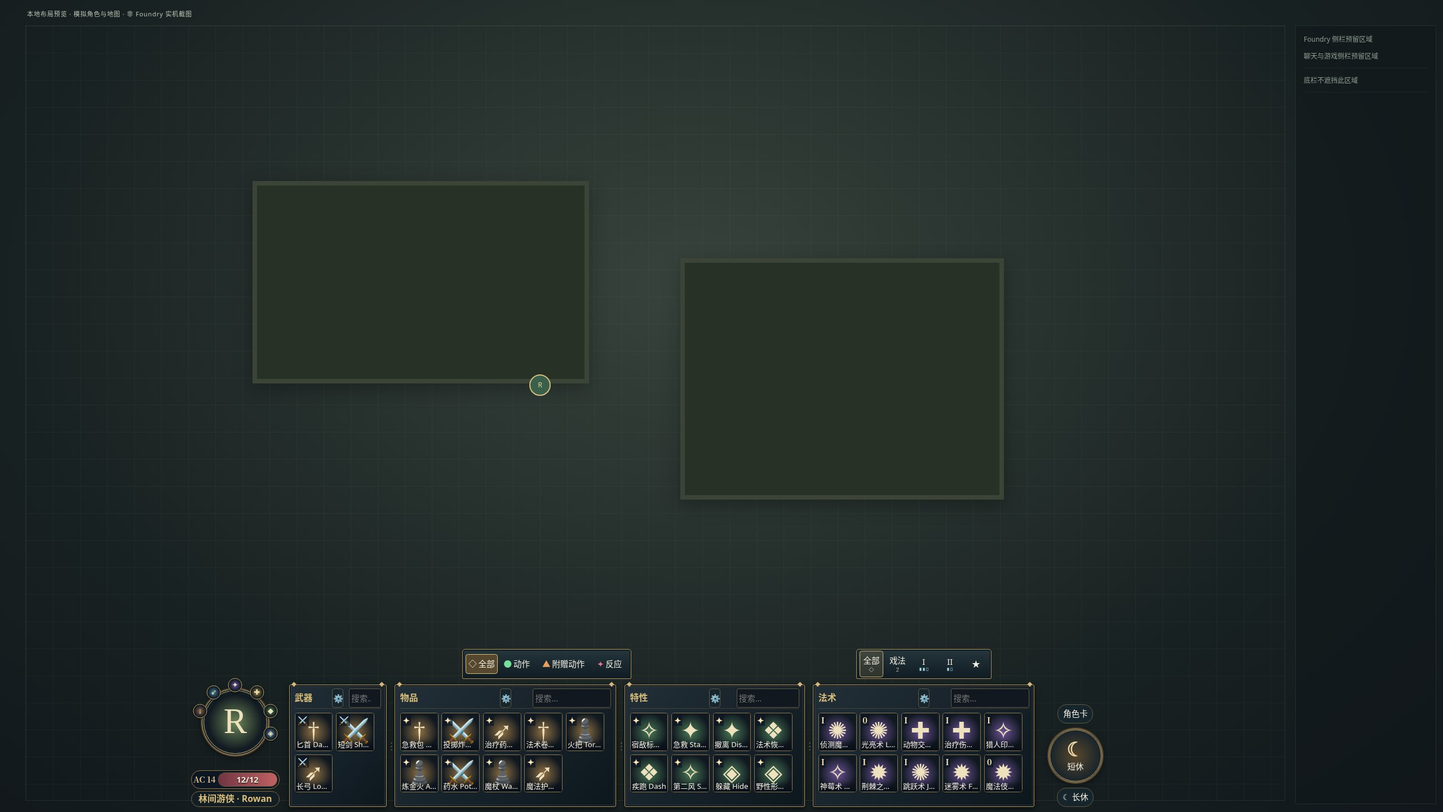
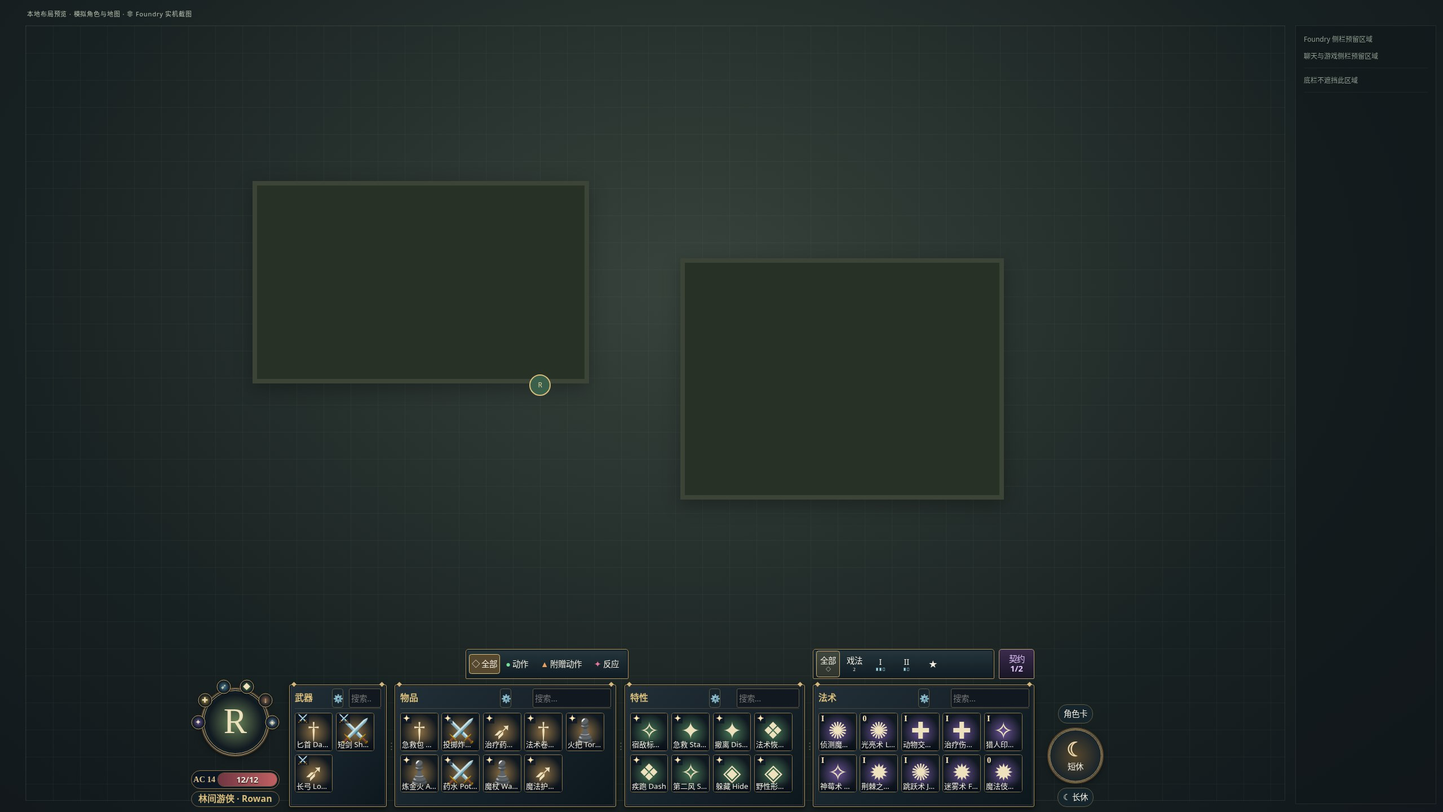
feat: center portrait condition groups and show separate pact slots

diff --git a/scripts/hud.js b/scripts/hud.js
@@ -328,7 +328,7 @@ export class VideoHUD {
     // Never toggle upstream settings or touch its persistent player flags.
     document.body.classList.add('bg3-video-hud-active');
     if (focusKey) {
-      const focused = [...root.querySelectorAll('button, input, select, [data-scroll-group][tabindex], [data-divider]')]
+      const focused = [...root.querySelectorAll('button, input, select, [data-scroll-group][tabindex], [data-divider], [data-condition-key]')]
         .find(b => JSON.stringify(b.dataset) === focusKey);
       focused?.focus({ preventScroll: true });
       if (focused?.tagName === 'INPUT' && selection?.[0] !== null && selection?.[0] !== undefined) {
@@ -340,18 +340,21 @@ export class VideoHUD {
   }
 
   spellControls(prefs) {
+    const wrapper = node('div', undefined, 'bg3-video-hud-spell-controls');
     const box = node('div', undefined, 'bg3-video-hud-spells');
     const nav = node('nav');
     nav.dataset.scrollGroup = 'spell-levels';
     nav.setAttribute('aria-label', '法术环阶');
     const pools = slotPools(this.actor);
+    const regularPools = pools.filter(pool => pool.key !== 'pact');
+    const pact = pools.find(pool => pool.key === 'pact');
     const spells = itemsFor(this.actor, {}, { edit: true }).filter(i => i.type === 'spell');
     for (const level of ['all', ...spellLevels(this.actor)]) {
       const text = level === 'all' ? '全部' : level === 0 ? '戏法' : ['0', 'I', 'II', 'III', 'IV', 'V', 'VI', 'VII', 'VIII', 'IX'][level];
       const control = button('', 'filter-level', `法术环阶：${level === 'all' ? '全部' : `${level}环`}`, { value: String(level) });
       control.append(node('span', text));
       const indicators = node('span', undefined, 'bg3-video-hud-level-pips');
-      const pool = pools.find(p => p.key === `spell${level}`);
+      const pool = regularPools.find(p => p.key === `spell${level}`);
       if (pool) {
         control.title += ` · 法术位 ${pool.value}/${pool.max}`;
         for (let i = 0; i < Math.min(12, Number(pool.max) || 0); i++) {
@@ -368,14 +371,14 @@ export class VideoHUD {
     pinned.setAttribute('aria-pressed', String(prefs.pinnedOnly));
     nav.append(pinned);
     box.append(nav);
-    const slots = node('small', pools.length
-      ? pools.map(p => `${p.label}：${p.value ?? '?'}/${p.max ?? '?'}`).join(' · ')
-      : '无法术位。戏法与天赋施法按系统规则处理。');
+    const slots = node('small', regularPools.length
+      ? regularPools.map(p => `${p.label}：${p.value ?? '?'}/${p.max ?? '?'}`).join(' · ')
+      : '无普通法术位。戏法与天赋施法按系统规则处理。');
     slots.title = slots.textContent;
     slots.dataset.scrollGroup = 'spell-pools';
     slots.tabIndex = 0;
     const pips = node('span', undefined, 'bg3-video-hud-slot-pips'); pips.setAttribute('aria-hidden', 'true');
-    for (const pool of pools) {
+    for (const pool of regularPools) {
       const group = node('span'); group.title = `${pool.label}：${pool.value}/${pool.max}`;
       for (let i = 0; i < Math.min(Number(pool.max) || 0, 12); i++) {
         const pip = node('i'); if (i < pool.value) pip.className = 'available'; group.append(pip);
@@ -383,7 +386,17 @@ export class VideoHUD {
       pips.append(group);
     }
     slots.append(pips); box.append(slots);
-    return box;
+    wrapper.append(box);
+    if (pact) {
+      const indicator = node('div', undefined, 'bg3-video-hud-pact-slots');
+      indicator.tabIndex = 0; indicator.dataset.scrollGroup = 'pact-slots';
+      indicator.setAttribute('role', 'group');
+      indicator.setAttribute('aria-label', `${pact.label}法术位：当前 ${pact.value ?? '?'}，总数 ${pact.max ?? '?'}`);
+      indicator.title = `${pact.label}法术位：${pact.value ?? '?'}/${pact.max ?? '?'}（只读，使用与恢复由系统处理）`;
+      indicator.append(node('span', '契约'), node('strong', `${pact.value ?? '?'}/${pact.max ?? '?'}`));
+      wrapper.append(indicator);
+    }
+    return wrapper;
   }
 
   positionChrome() {
@@ -418,7 +431,8 @@ export class VideoHUD {
       });
       const rows = Math.max(1, Math.floor((lists[0].clientHeight + gap) / (cell + gap)));
       // The allocator's gap is the grid gap. Panel gaps are reserved separately.
-      const plan = autoColumnWidths(this.columnCounts, { width: available - panelGap * 3 + gap * 3, cell, gap, frame, rows });
+      const minimumColumns = [1, 1, 1, root.querySelector('.bg3-video-hud-pact-slots') ? 2 : 1];
+      const plan = autoColumnWidths(this.columnCounts, { width: available - panelGap * 3 + gap * 3, cell, gap, frame, rows, minimumColumns });
       if (root.dataset.columnSizing !== 'manual') {
         root.style.setProperty('--video-columns', plan.widths.map(width => `${width}px`).join(' '));
         // Explicit whole columns fill every list. The common tile size fits
@@ -524,6 +538,9 @@ export class VideoHUD {
   restoreEditorFocus(group, actor) {
     setTimeout(() => {
       if (this.destroyed || this.actor !== actor || this.edit || this.choiceDialog?.open || this.dialog?.open) return;
+      // A queued dialog close must not steal focus after the user has already
+      // moved to an item, a condition, or the read-only pact indicator.
+      if (this.root?.contains(document.activeElement)) return;
       [...(this.root?.querySelectorAll('[data-action="edit-group"]') ?? [])]
         .find(control => control.dataset.value === group)?.focus({ preventScroll: true });
     }, 0);

diff --git a/tests/reference-browser.js b/tests/reference-browser.js
@@ -28,6 +28,8 @@ export async function referenceBrowserTests({ test, assert, equal, flush }) {
         const wrapBox = hud.root.querySelector('.bg3-video-hud-portrait-wrap').getBoundingClientRect();
         assert(centres.every(c => c.y < wrapBox.y + wrapBox.height / 2));
         assert(Math.hypot(centres[0].x - centres[1].x, centres[0].y - centres[1].y) < wrapBox.width * .28);
+        assert(Math.abs((centres[0].x + centres[1].x) / 2 - wrapBox.x - wrapBox.width / 2) < 1);
+        assert(Math.abs(centres[0].y - centres[1].y) < 1);
         equal(badges.map(b => b.tabIndex), [0, 0]);
         const box = hud.root.querySelector('.bg3-video-hud-portrait-wrap').getBoundingClientRect();
         for (const badge of badges) {
@@ -38,8 +40,45 @@ export async function referenceBrowserTests({ test, assert, equal, flush }) {
         badges[0].querySelector('img').dispatchEvent(new Event('error')); equal(badges[0].textContent, '?'); equal(badges[0].title, '中毒');
         hud.setActor(candidate, { id: 'second', document: { overlayEffect: icon + '#second' } });
         equal(hud.root.querySelectorAll('.bg3-video-hud-condition').length, 3);
+        const middle = hud.root.querySelectorAll('.bg3-video-hud-condition')[1];
+        const middleBox = middle.getBoundingClientRect();
+        assert(Math.abs(middleBox.x + middleBox.width / 2 - wrapBox.x - wrapBox.width / 2) < 1);
+        middle.focus(); const focusKey = middle.dataset.conditionKey; hud.render();
+        equal(document.activeElement.dataset.conditionKey, focusKey);
         hud.setActor(actor('empty-conditions', [])); equal(hud.root.querySelectorAll('.bg3-video-hud-condition').length, 0);
         equal(JSON.stringify(candidate), JSON.stringify(before)); equal(user.writes.length, writes);
+      } finally { hud.setActor(hero, token); }
+    });
+    await test('independent pact indicator shows current/total beside filters, stays separate from regular slots, and changes actor without writes', async () => {
+      const candidate = actor('pact-indicator', [item('known', 'spell', { level: 1 })], { system: { spells: {
+        spell1: { value: 1, max: 3 }, pact: { value: 2, max: 2, level: 5 }
+      } } });
+      const writes = user.writes.length;
+      try {
+        hud.setActor(candidate); const width = hud.root.getBoundingClientRect().width;
+        let pact = hud.root.querySelector('.bg3-video-hud-pact-slots');
+        equal(pact.textContent, '契约2/2'); assert(pact.title.includes('契约5环'));
+        const rail = hud.root.querySelector('.bg3-video-hud-spells');
+        assert(!rail.contains(pact)); assert(pact.getBoundingClientRect().left >= rail.getBoundingClientRect().right);
+        assert(!rail.textContent.includes('契约')); assert(rail.textContent.includes('1环：1/3'));
+        assert(!hud.root.querySelector('[data-action=filter-level][data-value="5"]'));
+        candidate.system.spells.pact.value = 0; hud.render();
+        pact = hud.root.querySelector('.bg3-video-hud-pact-slots'); equal(pact.textContent, '契约0/2');
+        pact.focus(); pact.click(); equal(candidate.system.spells.pact.value, 0); assert(document.activeElement === pact);
+        candidate.system.spells.pact.value = undefined; hud.render(); equal(hud.root.querySelector('.bg3-video-hud-pact-slots').textContent, '契约?/2');
+        candidate.system.spells.pact = { value: 0, max: 0, level: 0 }; hud.render(); assert(!hud.root.querySelector('.bg3-video-hud-pact-slots'));
+        hud.setActor(actor('other-pact', [], { system: { spells: { pact: { value: 1, max: 3, level: 2 } } } }));
+        equal(hud.root.querySelector('.bg3-video-hud-pact-slots').textContent, '契约1/3');
+        hud.setActor(actor('no-pact', [])); assert(!hud.root.querySelector('.bg3-video-hud-pact-slots'));
+        assert(Math.abs(hud.root.getBoundingClientRect().width - width) < .6); equal(user.writes.length, writes);
+        hud.setActor(actor('pact-small-spell-group', [item('one-spell', 'spell', { level: 1 }),
+          ...Array.from({ length: 120 }, (_, i) => item(`crowded-item-${i}`, 'consumable', { activation: { type: 'action' } }))],
+        { system: { spells: { pact: { value: 1, max: 2, level: 3 } } } }));
+        const panel = hud.root.querySelector('.bg3-video-hud-spell-controls').getBoundingClientRect();
+        pact = hud.root.querySelector('.bg3-video-hud-pact-slots');
+        assert(pact.getBoundingClientRect().right <= panel.right + 1, 'Pact panel must stay inside a small spell group');
+        const levels = hud.root.querySelector('[data-scroll-group=spell-levels]');
+        assert(levels.clientWidth + 1 >= levels.querySelector('button').getBoundingClientRect().width, 'At least one full level control remains reachable beside pact slots');
       } finally { hud.setActor(hero, token); }
     });
     await test('condition overflow opens a readable full list with no More button, menu or replacement action strip', async () => {

diff --git a/tests/browser.js b/tests/browser.js
@@ -105,7 +105,9 @@ try {
     assert(!root()); assert(originalVisible());
     await controls.tokens.tools.bg3VideoHUD.onChange(); await flush();
     assert(root()); assert(!originalVisible());
-    for (const label of ['武器', '物品', '特性', '法术', '生命 9/12', '护甲 15', '契约2环：1/1', '1环：0/2']) assert(root().textContent.includes(label), label);
+    for (const label of ['武器', '物品', '特性', '法术', '生命 9/12', '护甲 15', '1环：0/2']) assert(root().textContent.includes(label), label);
+    equal(root().querySelector('.bg3-video-hud-pact-slots').textContent, '契约1/1');
+    assert(root().querySelector('.bg3-video-hud-pact-slots').title.includes('契约2环'));
     for (const label of ['附赠动作', '反应', '仅固定', '短休', '长休']) assert(root().textContent.includes(label), label);
     assert(!root().querySelector('footer')); assert(!find('more'));
     equal(definitions.size, 0); equal(settings.get(`${MODULE_ID}.enabled`), false);
@@ -128,6 +130,18 @@ try {
       await Hooks.emit('updateToken'); await flush(); equal(root().querySelectorAll('.bg3-video-hud-condition').length, 1);
       equal(user.writes.length, before);
     } finally { delete hero.temporaryEffects; delete hero.statuses; await select(hero); }
+  });
+  await test('native actor resource updates refresh pact current/total and preserve keyboard focus without writes', async () => {
+    const before = user.writes.length, original = structuredClone(hero.system.spells.pact);
+    try {
+      root().querySelector('.bg3-video-hud-pact-slots').focus();
+      hero.system.spells.pact.value = 0; await Hooks.emit('updateActor', hero); await flush();
+      equal(root().querySelector('.bg3-video-hud-pact-slots').textContent, '契约0/1');
+      equal(document.activeElement.dataset.scrollGroup, 'pact-slots');
+      await select(actor('no-pact-resource', [])); assert(!root().querySelector('.bg3-video-hud-pact-slots'));
+      await select(hero); equal(root().querySelector('.bg3-video-hud-pact-slots').textContent, '契约0/1');
+      equal(user.writes.length, before);
+    } finally { hero.system.spells.pact = original; await select(hero); }
   });
   await test('standalone HUD needs no BG3 shell; optional HUDs may be disabled or present without writes', async () => {
     const shell = document.getElementById('bg3-hotbar'); shell.remove();
@@ -330,6 +344,7 @@ try {
       resources: { primary: { label: 'Very long resource name', value: 2, max: 4 } } }
   });
   hero.temporaryEffects = crowded.temporaryEffects = Array.from({ length: 16 }, (_, i) => ({ id: `layout-effect-${i}`, name: `模拟状态${i}`, statuses: new Set([`layout-status-${i}`]) }));
+  crowded.system.spells.pact = { level: 5, value: 1, max: 2 };
   window.bg3LayoutTest = {
     crowded: () => select(crowded), reset: () => select(hero),
     refresh: () => Hooks.emit('updateActor', crowded), writes: () => user.writes.length,

diff --git a/tests/model.test.js b/tests/model.test.js
@@ -66,6 +66,17 @@ test('automatic widths reserve full icon columns and give the crowded category m
   for (let i = 0; i < 4; i++) assert.ok(Math.abs(spells.widths[i] - (20 + spells.columns[i] * spells.cell + (spells.columns[i] - 1) * 6)) < 1e-8);
 });
 
+test('a header minimum reserves pact filter space without changing counts, uniform tiles or the fixed total', () => {
+  const counts = [0, 120, 0, 1], original = [...counts];
+  const options = { width: 800, cell: 50, gap: 4, frame: [20, 20, 20, 20] };
+  assert.equal(autoColumnWidths(counts, options).columns[3], 1);
+  const plan = autoColumnWidths(counts, { ...options, minimumColumns: [1, 1, 1, 2] });
+  assert.ok(plan.columns[3] >= 2); assert.ok(Math.abs(plan.used - options.width) < 1e-8);
+  plan.widths.forEach((w, i) => assert.ok(Math.abs(w - 20 - plan.columns[i] * plan.cell - (plan.columns[i] - 1) * 4) < 1e-8));
+  assert.deepEqual(counts, original);
+  assert.throws(() => autoColumnWidths(counts, { ...options, minimumColumns: [1, 1, 1, 0] }));
+});
+
 test('three or more items reserve at least two columns even beside a much larger category or in a narrow budget', () => {
   const options = { width: 1000, cell: 50, gap: 6, frame: [20, 20, 20, 20] };
   for (const width of [1000, 300]) {
@@ -201,9 +212,23 @@ test('slot pools display depleted regular slots and pact slots separately', () =
   assert.deepEqual(pools.map(p => p.key), ['spell1', 'spell2', 'pact']);
   assert.equal(pools[0].value, 0);
   assert.equal(pools[2].label, '契约3环');
-  assert.deepEqual(spellLevels(hero), [0, 1, 2, 3]);
+  assert.deepEqual(spellLevels(hero), [0, 1, 2]);
   assert.deepEqual(slotPools(null), []);
   assert.deepEqual(spellLevels(null), [0]);
+});
+
+test('pact-only pools preserve depleted and unknown counts without adding normal spell levels or mutating slots', () => {
+  const hero = actor('pact', [], { system: { spells: { pact: { level: 5, value: 0, max: 2 } } } });
+  const before = structuredClone(hero.system.spells);
+  assert.deepEqual(slotPools(hero).map(p => [p.key, p.value, p.max, p.level]), [['pact', 0, 2, 5]]);
+  assert.deepEqual(spellLevels(hero), [0]);
+  assert.deepEqual(hero.system.spells, before);
+  hero.items.set('known', item('known', 'spell', { level: 3 }));
+  assert.deepEqual(spellLevels(hero), [0, 1, 2, 3]);
+  hero.system.spells.pact.value = undefined;
+  assert.equal(slotPools(hero)[0].value, null);
+  hero.system.spells.pact = { level: 0, value: 0, max: 0 };
+  assert.deepEqual(slotPools(hero), []);
 });
 
 test('spell tabs include known high-level spells even without slots', () => {

diff --git a/scripts/model.js b/scripts/model.js
@@ -49,14 +49,15 @@ export function resizeColumns(widths, index, delta, minimum = 56) {
 
 // Fill the fixed deck with whole columns, then fit one shared square tile size.
 // Empty capacity is whole slots, never a fractional strip beside the grid.
-export function autoColumnWidths(counts, { width, cell, gap = 0, frame = [0, 0, 0, 0], rows = 2 }) {
+export function autoColumnWidths(counts, { width, cell, gap = 0, frame = [0, 0, 0, 0], rows = 2, minimumColumns = [1, 1, 1, 1] }) {
   const n = GROUPS.length;
   if (![width, cell, gap, rows].every(Number.isFinite) || width <= 0 || cell <= 0 || gap < 0 || rows < 1
-    || !Array.isArray(frame) || frame.length !== n || frame.some(v => !Number.isFinite(v) || v < 0)) {
+    || !Array.isArray(frame) || frame.length !== n || frame.some(v => !Number.isFinite(v) || v < 0)
+    || !Array.isArray(minimumColumns) || minimumColumns.length !== n || minimumColumns.some(v => !Number.isInteger(v) || v < 1 || v > 100)) {
     throw new Error('Invalid automatic column geometry');
   }
   const load = GROUPS.map((_, i) => Number.isFinite(counts?.[i]) ? Math.max(0, Math.floor(counts[i])) : 0);
-  const columns = load.map(count => count >= 3 ? 2 : 1);
+  const columns = load.map((count, i) => Math.max(count >= 3 ? 2 : 1, minimumColumns[i]));
   const minimum = columns.reduce((sum, count) => sum + count, 0);
   const room = Math.max(0, width - gap * (n - 1));
   const space = room - frame.reduce((a, b) => a + b, 0) + n * gap;
@@ -187,7 +188,7 @@ export function slotPools(actor) {
 
 export function spellLevels(actor) {
   const max = Math.max(0, ...values(actor?.items).filter(i => i.type === 'spell' && nativeItemVisible(i, actor)).map(spellLevel),
-    ...slotPools(actor).map(p => p.level ?? 0));
+    ...slotPools(actor).filter(p => p.key !== 'pact').map(p => p.level ?? 0));
   return Array.from({ length: Math.min(9, max) + 1 }, (_, i) => i);
 }
 

diff --git a/tests/conditions.test.js b/tests/conditions.test.js
@@ -48,13 +48,17 @@ test('ring overflow retains all names in a reachable badge and circular slots ne
   assert.deepEqual(conditionRing([]), []);
 });
 
-test('small sets occupy neighboring top slots; existing conditions never jump to opposite sides when another is added', () => {
-  const entries = Array.from({ length: 5 }, (_, i) => ({ key: String(i), name: `状态${i}` }));
-  const full = conditionRing(entries);
-  for (let n = 1; n <= 5; n++) {
+test('the whole neighboring arc is centred over the portrait for odd, even and overflowing condition counts', () => {
+  const entries = Array.from({ length: 18 }, (_, i) => ({ key: String(i), name: `状态${i}` }));
+  for (let n = 1; n <= 18; n++) {
     const ring = conditionRing(entries.slice(0, n));
-    assert.ok(ring.every(p => p.y < 50), 'The first five conditions belong above the portrait centre');
-    assert.deepEqual(ring, full.slice(0, n));
+    if (n <= 5) assert.ok(ring.every(p => p.y < 50), 'Small groups belong above the portrait centre');
+    assert.ok(Math.abs(ring.reduce((sum, p) => sum + p.x, 0) / ring.length - 50) < 1e-8);
+    ring.forEach((p, i) => {
+      const other = ring[ring.length - 1 - i];
+      assert.ok(Math.abs(p.x + other.x - 100) < 1e-8 && Math.abs(p.y - other.y) < 1e-8);
+    });
+    if (ring.length % 2) assert.ok(Math.abs(ring[Math.floor(ring.length / 2)].x - 50) < 1e-8);
     if (n > 1) assert.ok(Math.hypot(ring[0].x - ring[1].x, ring[0].y - ring[1].y) < 28, 'Two conditions must be adjacent, not opposite');
   }
 });

diff --git a/styles/video-hud.css b/styles/video-hud.css
@@ -424,3 +424,19 @@ body.bg3-video-hud-active #bg3-hotbar { display: none !important; }
   .bg3-video-hud-header { display: flex; align-items: center; }
   .bg3-video-hud-portrait-wrap { width: 58px; height: 58px; align-self: center; }
 }
+
+/* Pact slots have a separate read-only panel outside the scrolling level rail. */
+.bg3-video-hud-spell-controls {
+  grid-column: 4; display: flex; align-items: stretch; justify-self: center; gap: calc(5 * var(--video-unit));
+  min-width: 0; max-width: 100%; width: 100%;
+}
+.bg3-video-hud-spell-controls > .bg3-video-hud-spells { grid-column: auto; flex: 1 1 auto; min-width: 0; }
+.bg3-video-hud-pact-slots {
+  flex: 0 1 clamp(32px, calc(44 * var(--video-unit)), 78px); min-width: 0;
+  display: flex; flex-direction: column; align-items: center; justify-content: center; gap: 1px; padding: 1px 2px;
+  border: 1px solid #b89e79; border-radius: 5px 5px 2px 2px;
+  background: linear-gradient(#3d2c4ffa, #181626fa); color: #e3c5ff;
+  font-size: var(--video-small); line-height: 1.1; white-space: nowrap;
+}
+.bg3-video-hud-pact-slots strong { font: 600 var(--video-small)/1.1 system-ui, sans-serif; }
+.bg3-video-hud-pact-slots:focus-visible { outline: 2px solid #92d7f7; outline-offset: -2px; }

diff --git a/tests/compact-preview.js b/tests/compact-preview.js
@@ -14,7 +14,7 @@ const all = [
 ];
 const hero = actor('preview', all, { name: '林间游侠 · Rowan', img: icon('R', '#6c8659'),
   temporaryEffects: ['专注', '祝福', '加速', '中毒', '倒地', '隐形'].map((name, i) => ({ id: `preview-condition-${i}`, name, img: icon(['✦', '✚', '➶', '◆', '↓', '◈'][i], ['#67559b', '#a18439', '#467e95', '#4e8049', '#8b6348', '#567c9c'][i]) })),
-  system: { attributes: { hp: { value: 12, max: 12 }, ac: { value: 14 } }, spells: { spell1: { value: 2, max: 3, level: 1 }, spell2: { value: 1, max: 2, level: 2 } } } });
+  system: { attributes: { hp: { value: 12, max: 12 }, ac: { value: 14 } }, spells: { spell1: { value: 2, max: 3, level: 1 }, spell2: { value: 1, max: 2, level: 2 }, pact: { value: 1, max: 2, level: 3 } } } });
 for (const entry of hero.items.values()) {
   entry.actor = hero; entry.uuid = `${hero.uuid}.Item.${entry.id}`;
   entry.system.description = { value: '<p>原创模拟物品说明，用于验证完整说明卡、搜索和紧凑布局。</p><p><strong>操作：</strong>点击使用；法术先选环阶或来源。需要重复结算或原生选项时，开启“详细”。</p>' };

diff --git a/scripts/conditions.js b/scripts/conditions.js
@@ -41,9 +41,9 @@ export function conditionRing(entries, slots = 10) {
   const visible = entries.slice(0, overflow ? slots - 1 : slots);
   if (overflow) visible.push({ key: 'overflow', name: entries.slice(slots - 1).map(e => e.name).join('、'), count: entries.length - slots + 1 });
   return visible.map((entry, i) => {
-    // Fixed adjacent slots fill from twelve o'clock, alternating right/left.
-    // Adding a second condition never pushes it to the bottom of the portrait.
-    const offset = i ? Math.ceil(i / 2) * (i % 2 ? 1 : -1) : 0;
+    // Centre the entire contiguous arc on twelve o'clock. Even counts straddle
+    // the centre line; odd counts have one icon exactly above the portrait.
+    const offset = i - (visible.length - 1) / 2;
     const angle = -Math.PI / 2 + offset * Math.PI * 2 / slots;
     return { ...entry, x: 50 + Math.cos(angle) * 42, y: 50 + Math.sin(angle) * 42 };
   });

diff --git a/tools/package.py b/tools/package.py
@@ -16,7 +16,7 @@ files += [root / 'docs' / 'images' / 'compact-720p.png', root / 'docs' / 'images
 files += sorted((root / 'docs' / 'images').glob('responsive-*.jpg'))
 files += sorted((root / 'docs' / 'images').glob('complete-*.jpg'))
 files += sorted((root / 'docs' / 'images').glob('choice-*.jpg'))
-files += [root / 'docs' / 'images' / name for name in ['adjacent-statuses-720p.jpg', 'condition-overflow-720p.jpg']]
+files += [root / 'docs' / 'images' / name for name in ['adjacent-statuses-720p.jpg', 'condition-overflow-720p.jpg', 'pact-depleted-720p.jpg']]
 output = root / 'dist'
 output.mkdir(exist_ok=True)
 archive = output / 'bg3-video-hud.zip'

diff --git a/docs/TEST_REPORT.md b/docs/TEST_REPORT.md
@@ -1,25 +1,27 @@
-# 自动检查报告 — 2026-11-11（香港时间）
+# 自动检查报告 — 2026-11-12（香港时间）
 
-范围：v0.1.16 顶部相邻状态槽位，并完全删除更多菜单及次要操作入口；固定总宽、方形网格、原生法术可见性及权限守卫保持。仅开发环境模拟文档／离线Chromium；未连接Foundry账号。自动部署及自动实机测试保持关闭，用户人工验收。
+范围：v0.1.17 状态整组对称居中，法术筛选右侧独立契约位；保持无底栏／更多菜单，固定总宽、方形网格、原生法术可见性及权限守卫保持。仅开发环境模拟文档／离线Chromium；未连接Foundry账号。自动部署及自动实机测试保持关闭，用户人工验收。
 
 | 检查 | 结果 | 证据边界 |
 | --- | --- | --- |
 | npm run check | 54个JS及manifest／资源路径通过 | 静态检查 |
-| npm test | 141通过 | 目标模式、选择前零使用、原生唯一消费、魔法飞弹、可选反应配置、来源删除保护、比例保存、结束回合权限等文档替身 |
-| npm run test:browser | 130通过 | Chromium155，真实DOM／CSS／键鼠，模拟FoundryAPI |
+| npm test | 143通过 | 目标模式、选择前零使用、原生唯一消费、魔法飞弹、可选反应配置、来源删除保护、比例保存、结束回合权限等文档替身 |
+| npm run test:browser | 132通过 | Headless Chromium158，真实DOM／CSS／键鼠，模拟FoundryAPI |
 | npm run test:modstest-deploy | 51通过 | 共享实例配置、事务恢复与安全守卫 |
 | npm run test:deploy | 25通过 | 临时目录安装、备份、原子更新、回滚与旧版兼容 |
 | npm run package | 通过 | ZIP根manifest、所有传递导入与独立安装器 |
 | SHA256SUMS | 通过 | ZIP／manifest／安装器完整性 |
 | Playwright discovery | 仅列出用例 | 没有运行实机测试或登录 |
 
-合计347个自动检查。发布工作流会对实际标签提交重新运行同一套检查；以对应CI运行结果为准。静态检查、打包及用例发现不重复计入数量。
+合计351个自动检查。发布工作流会对实际标签提交重新运行同一套检查；以对应CI运行结果为准。静态检查、打包及用例发现不重复计入数量。
 
 对照原作者有效入口进行静态分析及离线只读渲染；未执行安装或战斗流程。参考渲染使用原创模拟数据，私有参考截图／代码不发布。公开截图为本项目自己的实现，不是用户世界。
 
 本次新增重点：
 
-- 1～5项状态占用顶部相邻固定槽位，两个状态真实DOM中心距离小于头像宽度28%，均在头像中心上方；新增后已有位置不变。10位溢出及碰撞／边界检查保留。菜单删除断言覆盖按钮、旧操作、方法和过时预览，齿轮编辑保存／拖动／固定／焦点均走现有分类编辑弹窗。
+- 状态1～18项模型检查整组X中心及镜像配对，真实DOM验证两项同高对称、三项居中，增删后按新规则重新居中。所有视口测量状态中心、边界和实际命中；溢出+N、完整名称、Token切换和焦点恢复保持。旧固定前缀断言已由整组居中替代。
+- 独立契约位真实DOM验证右侧位置、普通位排除契约、无额外普通环阶、耗尽0/x、未知?/x、0/0隐藏和角色切换；原生updateActor事件刷新并保留Tab焦点，点击零写入。120物品／1法术的窄栏用例验证面板在界内且至少一枚完整筛选按钮可见；最低两列头部预算不改变总宽／能力数量。
+- 原创两状态、三状态+契约0/2、溢出及五档视口截图更新。修复编辑弹窗排队关闭抢走后续键盘焦点，tooltip与弹窗真实键盘回归通过；菜单删除断言、齿轮编辑保存／拖动／固定保持。
 
 - 头像状态环覆盖原生临时／转移效果、条件ID与Token叠加状态去重、停用／抑制排除、同图不同普通效果保留、图片回退和10位环形溢出。原生事件增删／更新刷新与Token切换零写入。
 - DOM断言不再有footer，更多按钮、弹窗方法及次要操作入口均不存在，状态超过10项可展开全部；所有有效视口测量状态环边界，真实Enter/Tab操作分类齿轮编辑和取消，独立原生工具栏/API返回仍有守卫回归。
@@ -61,3 +63,5 @@
 - 分组编辑为独立弹窗；保存、取消、来源删除确认、结束回合防连点、切换角色／Token安全退出均有覆盖。
 
 离线通过不等于第三方自动化或完整Foundry规则验收。自定义条件、桌规、CPR特定工作流和实际Midi-QOL版本组合仍需人工核实。历史实机RPC阻碍见[实机报告](MODSTEST_LIVE_REPORT.md)；用户已终止自动测试，不在本次重复诊断，也不将其标记为解决。
+
+本轮首次新增边界用例暴露契约面板挤出窄栏和延迟编辑关闭抢焦点，两者修复后最终143模型／132浏览器通过。系统Chromium155曾启动超时，最终使用已安装的Playwright Headless Chromium158完成全部DOM回归；未修改测试超时掩盖失败。

diff --git a/docs/COMPACT_HUD.md b/docs/COMPACT_HUD.md
@@ -1,4 +1,4 @@
-# 720P～4K 自适应参考布局（v0.1.16）
+# 720P～4K 自适应参考布局（v0.1.17）
 
 本版按原作者实际底栏结构独立重做：圆形头像／AC 和生命胶囊、按数量分配宽度的武器／物品／特性／法术四块金边栏、悬浮资源条、右侧圆形操作组。整体宽度按视口有界缩放并居中，测量实际侧栏避让；同一视口下不受角色能力数量影响。默认自动分配，手动比例可拖动／键盘调整并按用户、角色保存；不是固定为某个物理分辨率。
 
@@ -59,7 +59,7 @@ CHROMIUM_PATH=/path/to/chromium node e2e/capture-previews.mjs
 
 ## 头像顶部相邻状态
 
-头像周围最多10个固定槽位，从头顶开始按右／左相邻位置填充，前5项均位于上半圈；增加数量不会把第二个状态移到脚下。来自当前所选Token的actor（包括未链接Token的合成Actor），不是按ID查询世界角色。读取原生temporaryEffects和actor.statuses，合并同一状态；停用／抑制效果排除，普通无状态的永久被动效果不从备用集合带入。图标和原生状态配置支持名称本地化，图片缺失／失败保留问号及完整名称。Token叠加状态也只读显示。
+头像周围最多显示10项，按36度相邻间距组成连续弧线，以头像顶部中线为中心整组对称排列。两个状态分居中线左右且同高，三个状态的中间项正对头顶；前5项均位于上半圈。新增／移除状态后整组重新居中，取代v0.1.16的旧位置不动规则。来自当前所选Token的actor（包括未链接Token的合成Actor），不是按ID查询世界角色。读取原生temporaryEffects和actor.statuses，合并同一状态；停用／抑制效果排除，普通无状态的永久被动效果不从备用集合带入。图标和原生状态配置支持名称本地化，图片缺失／失败保留问号及完整名称。Token叠加状态也只读显示。
 
 超过10项时显示前9项和+N按钮，展开当时的全部状态列表；不修改效果、持续时间、角色或Token文档。原有ActiveEffect／Token hooks刷新状态环，切换Token即重新读取并关闭旧弹窗。
 
@@ -69,3 +69,12 @@ CHROMIUM_PATH=/path/to/chromium node e2e/capture-previews.mjs
 ![两个状态相邻位于头顶，原创模拟](images/adjacent-statuses-720p.jpg)
 
 ![状态溢出列表，原创模拟](images/condition-overflow-720p.jpg)
+
+
+## 独立契约法术位
+
+法术筛选右侧的紫色小面板显示“契约 当前/总数”，与普通环阶按钮和普通位分开；Tab聚焦或悬停可读契约环级及完整只读说明。读取当前Actor原生 `system.spells.pact.value/max/level`，原生资源事件和Token切换会刷新。耗尽显示0/总数；缺失或0/0时隐藏；未知数显示?，不猜测或自行扣资源。契约位本身不会增加普通环阶，实际已知法术仍按自身环级参与筛选。
+
+契约位存在时，自动布局给法术栏至少两列的头部预算，避免“很多物品／只有一个法术”挤掉筛选；不伪造能力数量，不改变总宽或统一方格算法。手动比例仍由用户控制。
+
+![契约位耗尽仍显示0/2，三个状态整组居中，原创模拟](images/pact-depleted-720p.jpg)
